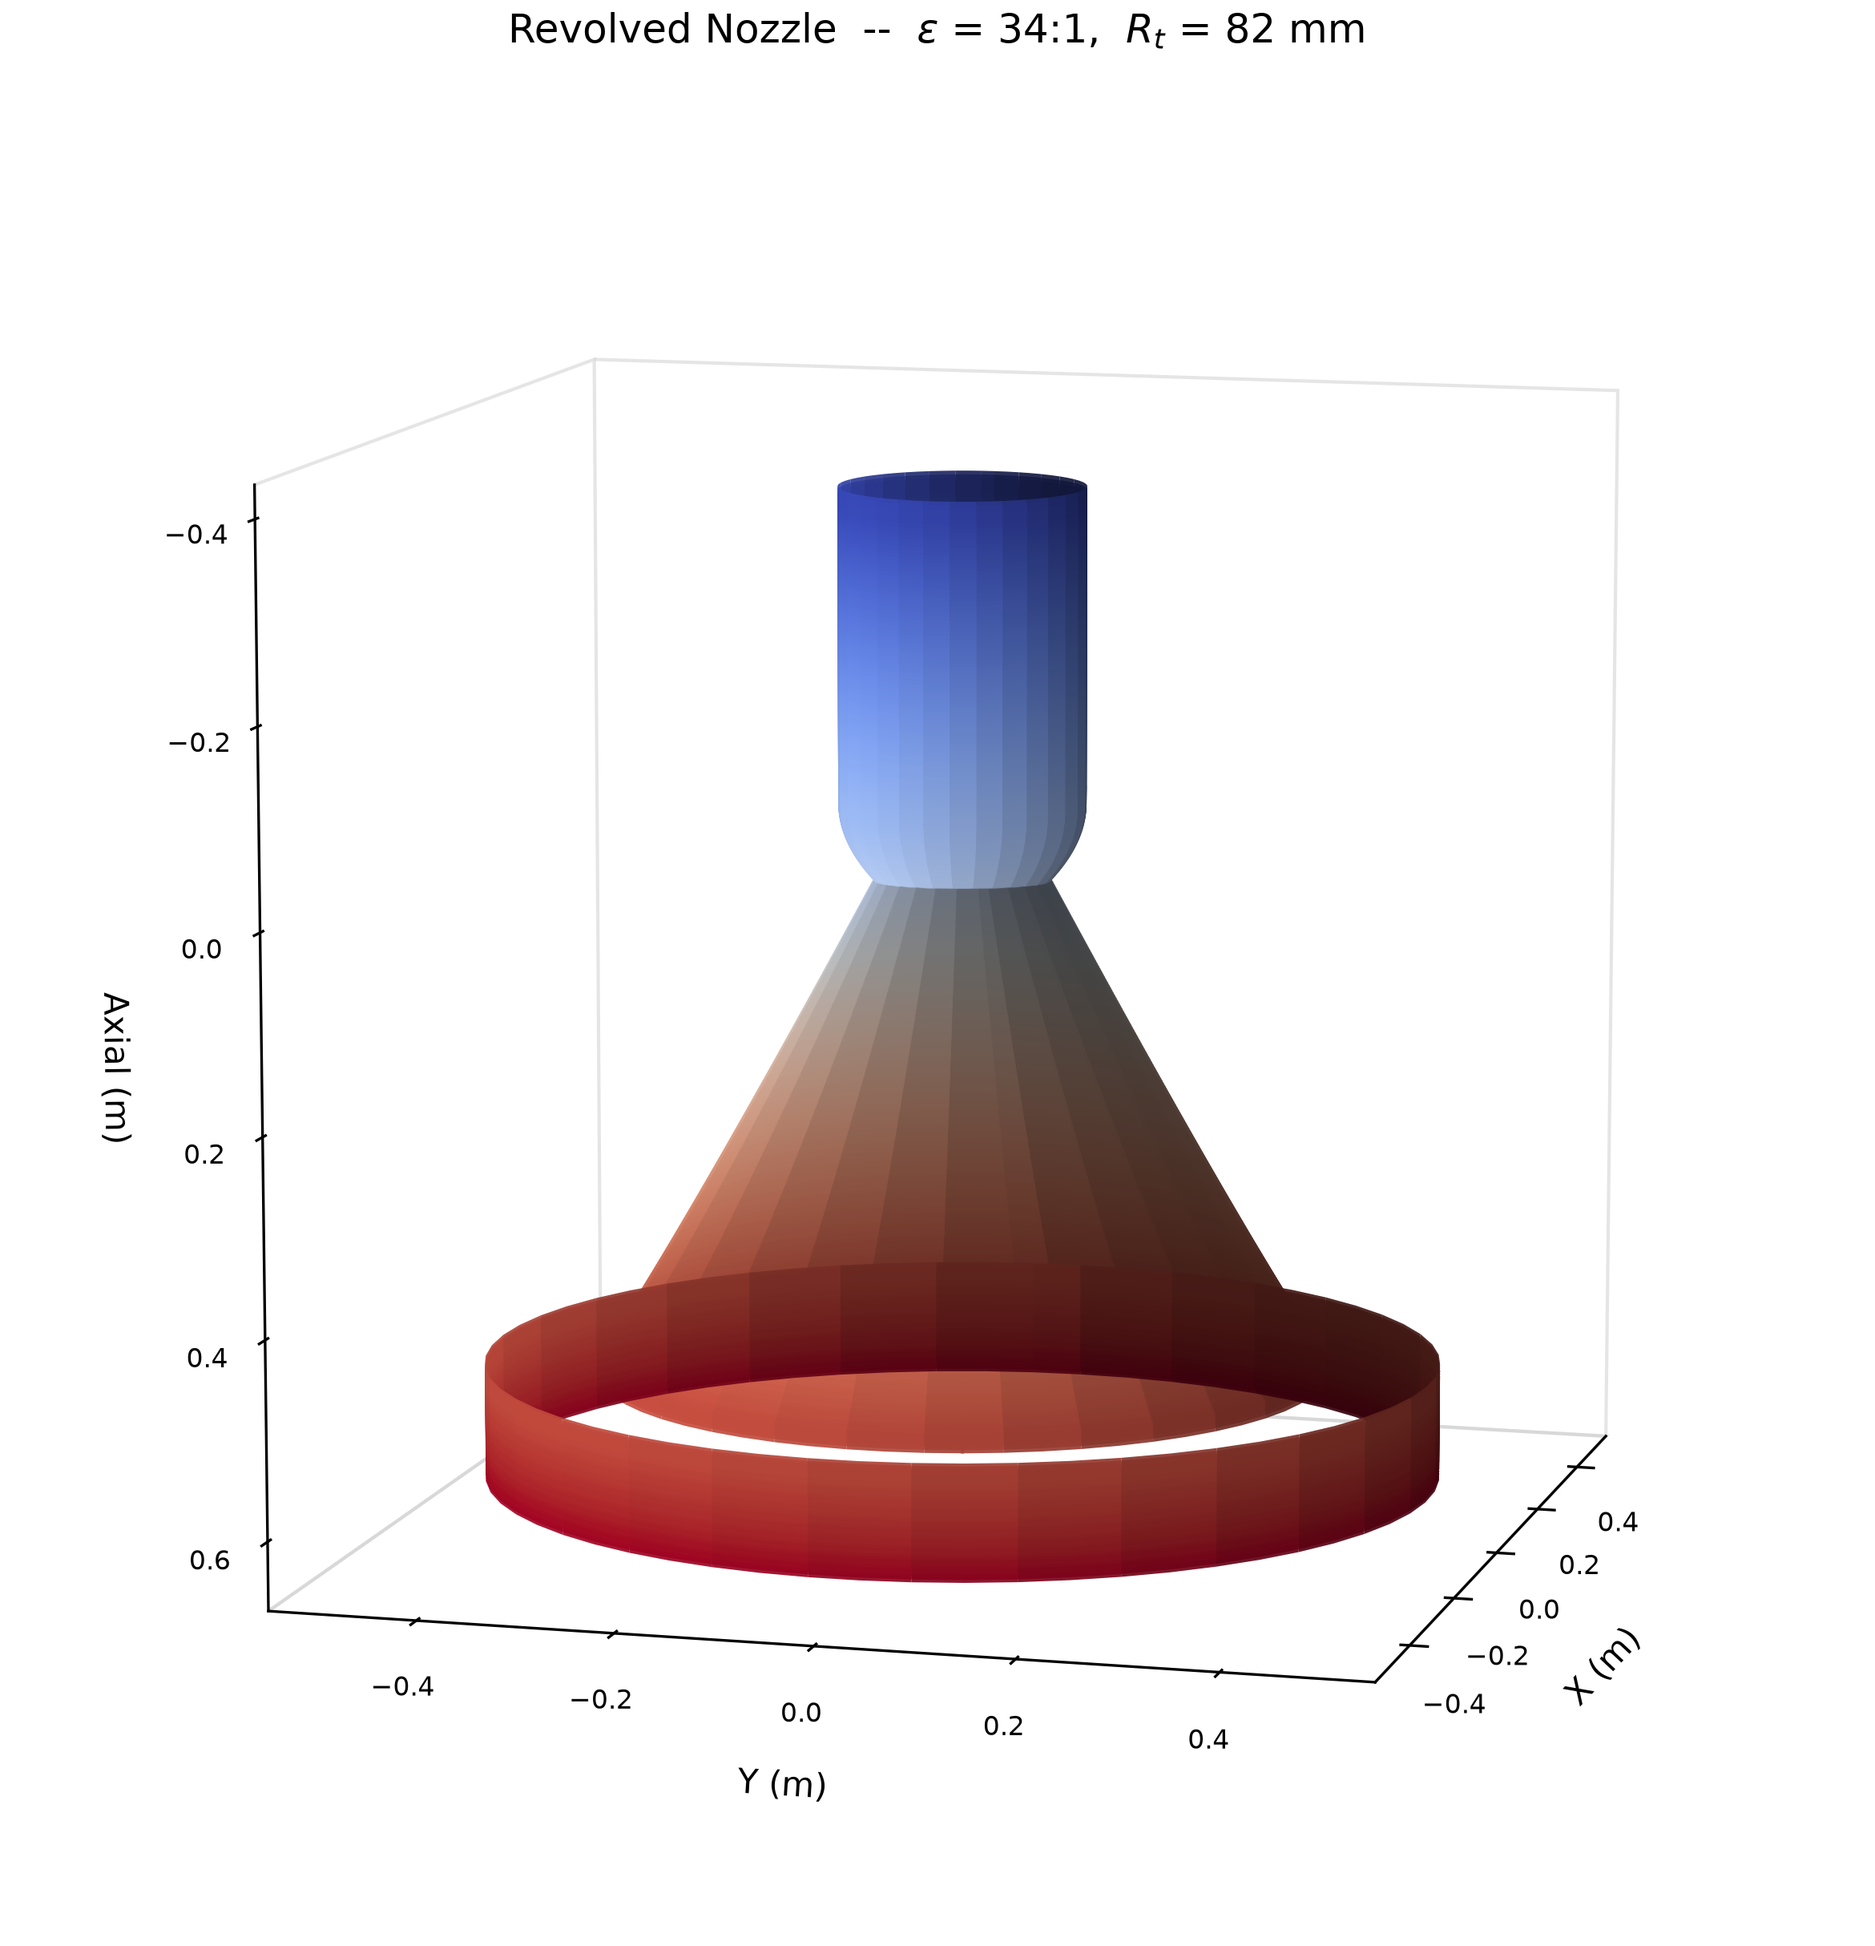
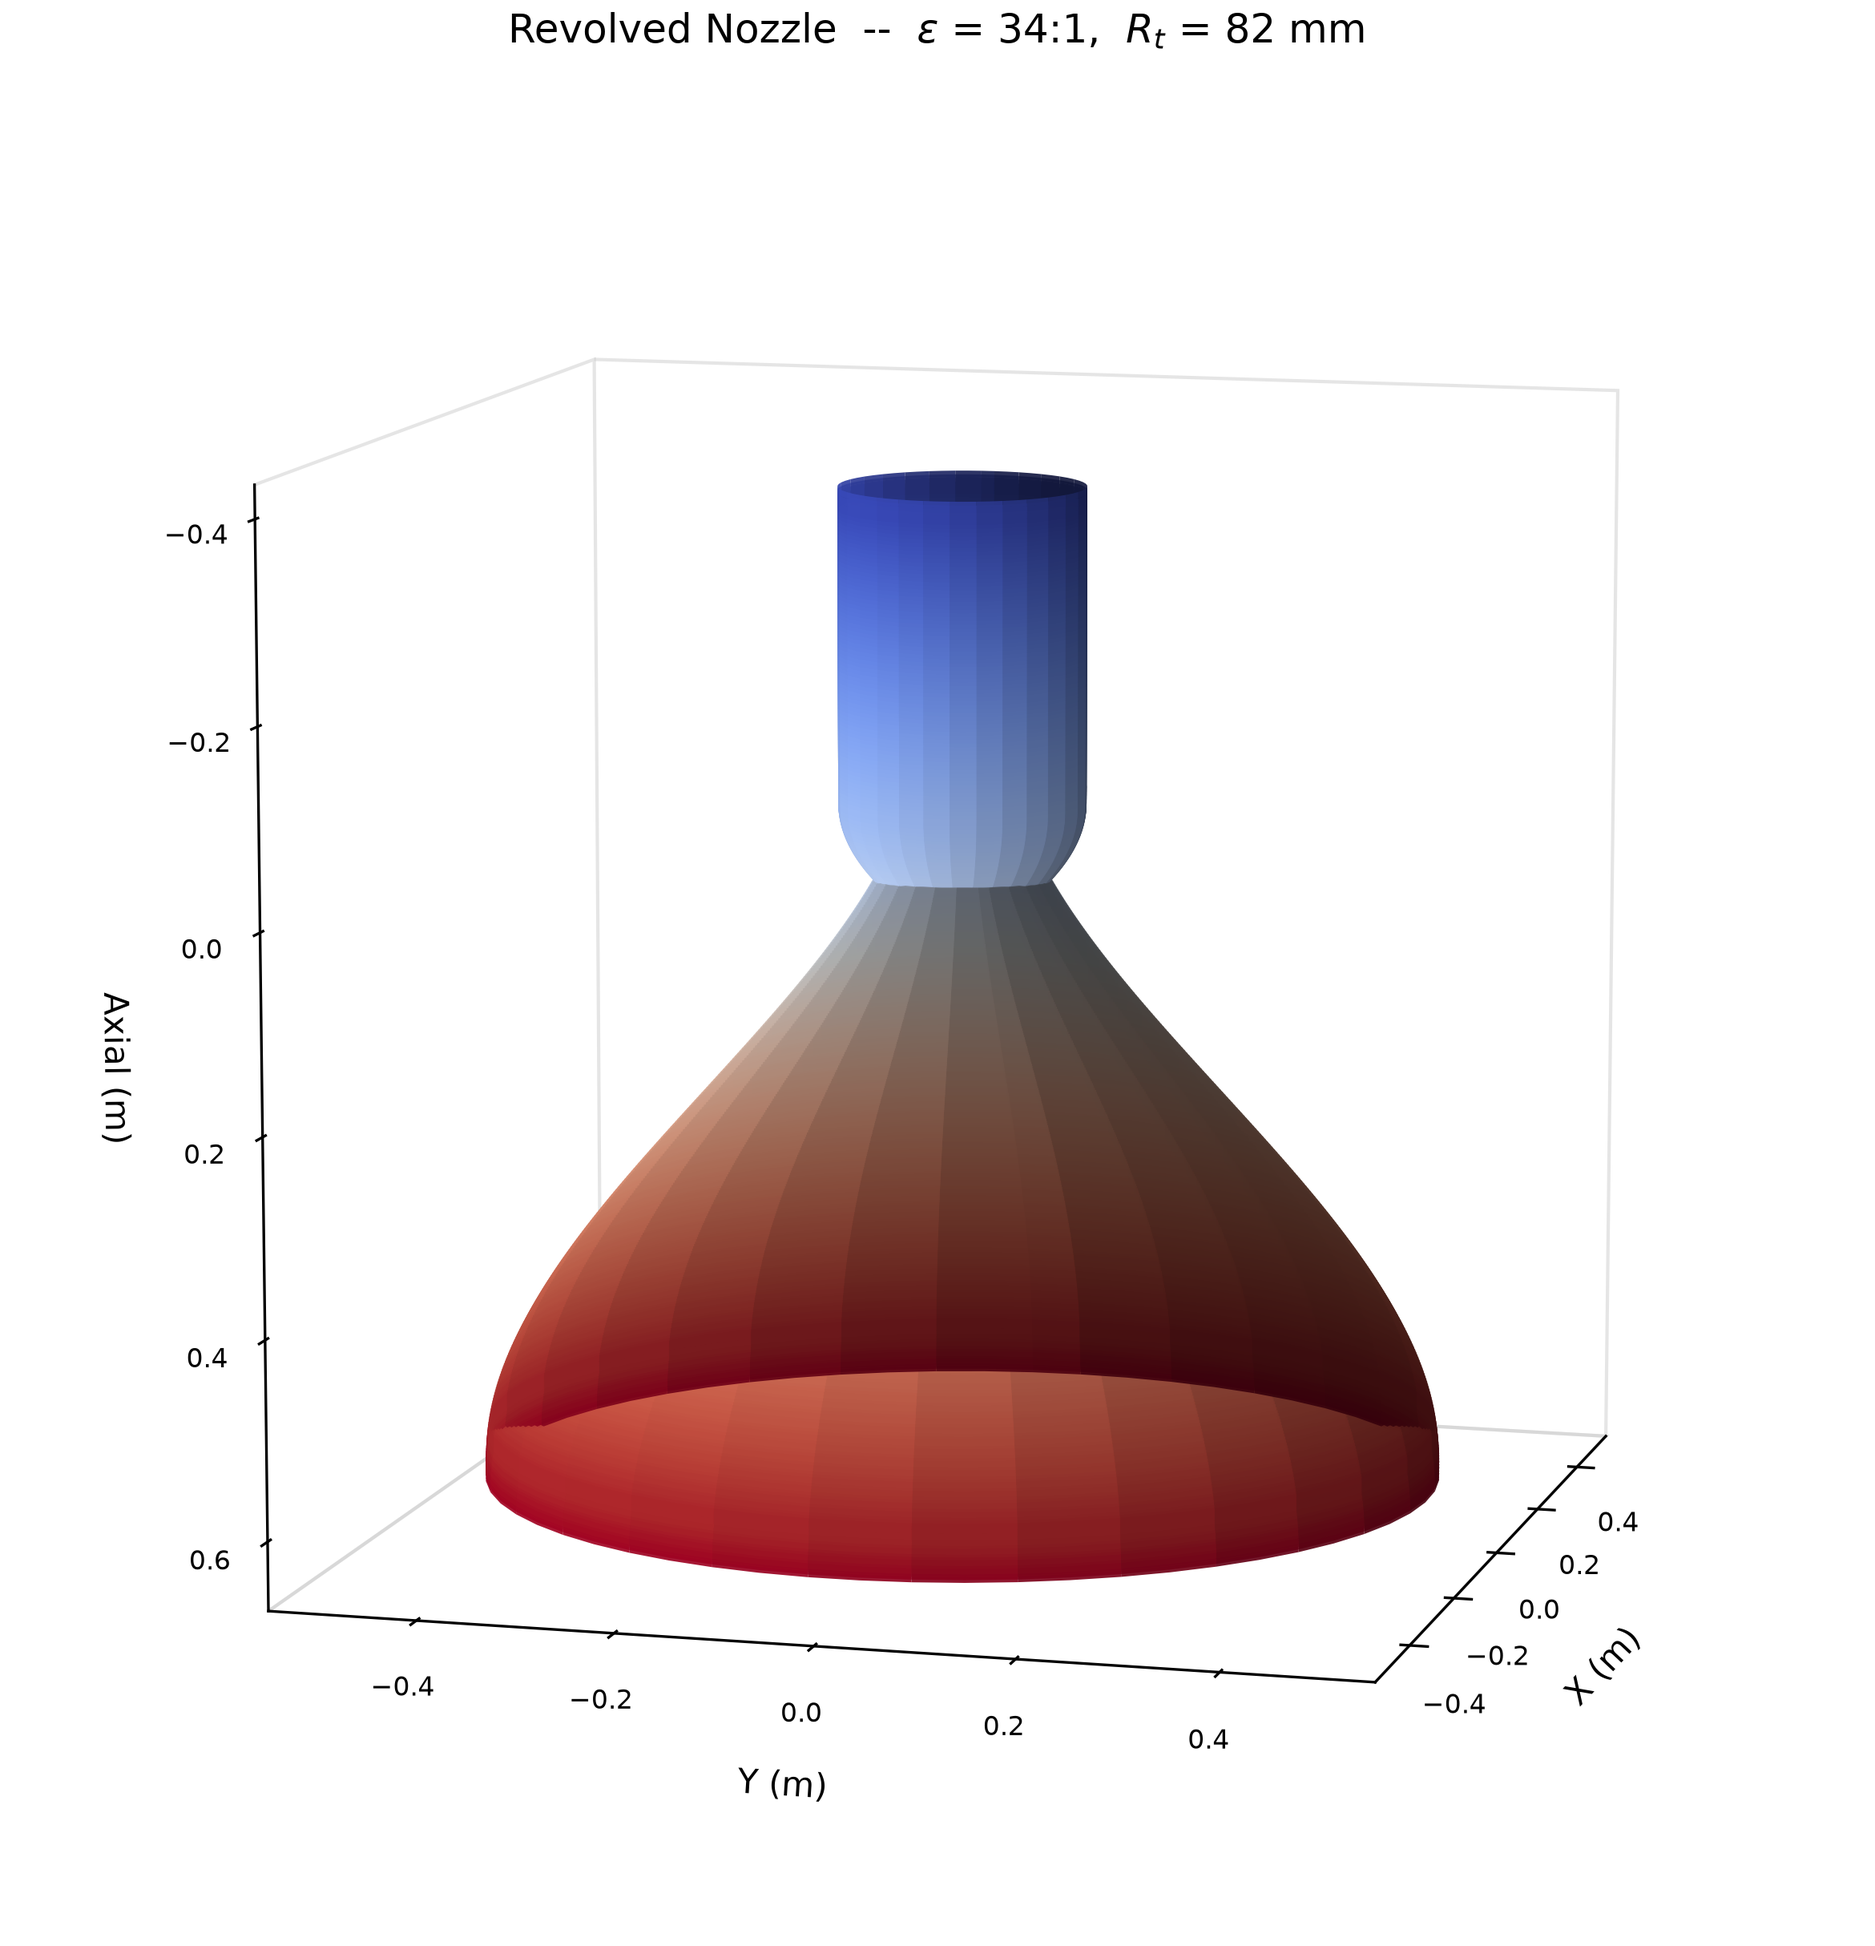
fix: replace Bezier bell with cubic polynomial for correct curvature
The quadratic Bezier had Q_x > length, causing non-monotonic x(t)
and Newton-Raphson to find wrong parameter values. The bell appeared
as a straight line.

New cubic polynomial exactly matches:
- y(0) = r_throat, y(L) = r_exit
- y'(0) = tan(theta_n), y'(L) = tan(theta_e)

Also updated preset tests to match new chamber lengths.

diff --git a/src/nozzle/geometry.py b/src/nozzle/geometry.py
@@ -170,53 +170,50 @@ def _rao_bell(
 ) -> np.ndarray:
     """Compute Rao parabolic bell contour.
 
-    Uses quadratic Bezier curve with control points:
-    - P0: (0, r_throat) - throat
-    - P1: (Cx, Cy) - control point from angle constraints
-    - P2: (length, r_exit) - exit
+    Uses a cubic polynomial that exactly matches:
+    - Radius at throat (x=0): r_throat
+    - Radius at exit (x=length): r_exit
+    - Slope at throat: tan(theta_n)
+    - Slope at exit: tan(theta_e)
+
+    This avoids Bezier parameterisation issues when the control point
+    falls outside the nozzle length.
 
     Args:
         r_throat: Throat radius (m)
         r_exit: Exit radius (m)
         length: Diverging section length (m)
         x: Axial coordinates (m)
-        theta_n: Wall angle at throat (degrees, default 30)
-        theta_e: Wall angle at exit (degrees, default 0 for perfectly expanded)
+        theta_n: Wall angle at throat (degrees)
+        theta_e: Wall angle at exit (degrees)
 
     Returns:
         Radial coordinates (m) at each x location
     """
-    # Wall angle at throat
-    theta_n_rad = np.radians(theta_n)
+    t_n = np.tan(np.radians(theta_n))
+    t_e = np.tan(np.radians(theta_e))
 
-    # Wall angle at exit (typically 0 degrees for perfectly expanded)
-    theta_e_rad = np.radians(theta_e)
+    # Cubic: y(x) = a*x^3 + b*x^2 + c*x + d
+    # y(0) = r_throat           -> d = r_throat
+    # y'(0) = t_n               -> c = t_n
+    # y(L) = r_exit             -> a*L^3 + b*L^2 + t_n*L + r_throat = r_exit
+    # y'(L) = t_e               -> 3*a*L^2 + 2*b*L + t_n = t_e
 
-    # Control point P1 from angle constraints
-    # At throat: dy/dx = tan(theta_n)
-    # At exit: dy/dx = tan(theta_e)
-    cx = (r_exit - r_throat - length * np.tan(theta_e_rad)) / (
-        np.tan(theta_n_rad) - np.tan(theta_e_rad)
-    )
-    cy = r_throat + cx * np.tan(theta_n_rad)
+    L = length
+    d = r_throat
+    c = t_n
 
-    # Parametric Bezier: t in [0, 1]
-    # x(t) = (1-t)^2 * 0 + 2*t*(1-t)*cx + t^2 * length
-    # y(t) = (1-t)^2 * r_throat + 2*t*(1-t)*cy + t^2 * r_exit
+    # Solve 2x2 system for a, b:
+    # a*L^3 + b*L^2 = r_exit - r_throat - t_n*L
+    # 3*a*L^2 + 2*b*L = t_e - t_n
+    rhs1 = r_exit - r_throat - t_n * L
+    rhs2 = t_e - t_n
 
-    # Solve for t from x using Newton-Raphson
-    t = np.linspace(0, 1, len(x))
-    for _ in range(10):
-        x_bezier = 2 * t * (1 - t) * cx + t**2 * length
-        dx_dt = 2 * (1 - 2 * t) * cx + 2 * t * length
-        dt = (x_bezier - x) / np.where(np.abs(dx_dt) >= 1e-12, dx_dt, 1e-12)
-        t = t - dt
-        t = np.clip(t, 0, 1)
-        if np.max(np.abs(dt)) < 1e-10:
-            break
+    det = L**3 * 2 * L - L**2 * 3 * L**2
+    a = (rhs1 * 2 * L - L**2 * rhs2) / det
+    b = (L**3 * rhs2 - 3 * L**2 * rhs1) / det
 
-    # Compute y from t
-    y = (1 - t)**2 * r_throat + 2 * t * (1 - t) * cy + t**2 * r_exit
+    y = a * x**3 + b * x**2 + c * x + d
 
     return y
 

diff --git a/tests/test_nozzle_config.py b/tests/test_nozzle_config.py
@@ -272,12 +272,12 @@ class TestNozzleConfigPresets:
         config = merlin_1d()
         assert config.throat_radius == 0.0825
         assert config.expansion_ratio == 16.0
-        assert config.chamber_length == 0.05
+        assert config.chamber_length == 0.30
         assert config.chamber_radius == 0.124
         assert config.convergent_half_angle == 45.0
-        assert config.throat_radius_of_curvature == 0.0
+        assert config.throat_radius_of_curvature == 0.041
         assert config.theta_n == 30.0
-        assert config.num_points == 300
+        assert config.num_points == 400
         assert config.exit_radius == pytest.approx(
             0.0825 * math.sqrt(16.0), rel=1e-10
         )
@@ -287,12 +287,12 @@ class TestNozzleConfigPresets:
         config = raptor_sl()
         assert config.throat_radius == 0.0825
         assert config.expansion_ratio == 34.0
-        assert config.chamber_length == 0.05
+        assert config.chamber_length == 0.30
         assert config.chamber_radius == 0.124
         assert config.convergent_half_angle == 45.0
-        assert config.throat_radius_of_curvature == 0.0
-        assert config.theta_n == 30.0
-        assert config.num_points == 300
+        assert config.throat_radius_of_curvature == 0.041
+        assert config.theta_n == 28.0
+        assert config.num_points == 400
         assert config.exit_radius == pytest.approx(
             0.0825 * math.sqrt(34.0), rel=1e-10
         )
@@ -317,7 +317,7 @@ class TestNozzleConfigPresets:
         config = rs_25()
         assert config.throat_radius == 0.130
         assert config.expansion_ratio == 77.5
-        assert config.chamber_length == 0.1
+        assert config.chamber_length == 0.50
         assert config.chamber_radius == 0.195
         assert config.convergent_half_angle == 45.0
         assert config.throat_radius_of_curvature == 0.065
@@ -332,7 +332,7 @@ class TestNozzleConfigPresets:
         config = rl10b_2()
         assert config.throat_radius == 0.140
         assert config.expansion_ratio == 285.0
-        assert config.chamber_length == 0.1
+        assert config.chamber_length == 0.60
         assert config.chamber_radius == 0.210
         assert config.convergent_half_angle == 45.0
         assert config.throat_radius_of_curvature == 0.070
